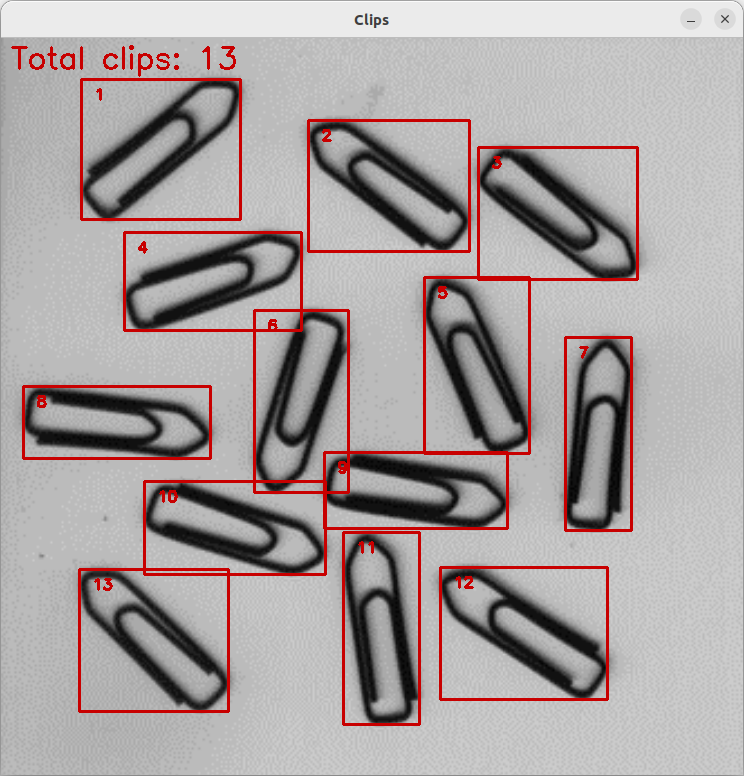
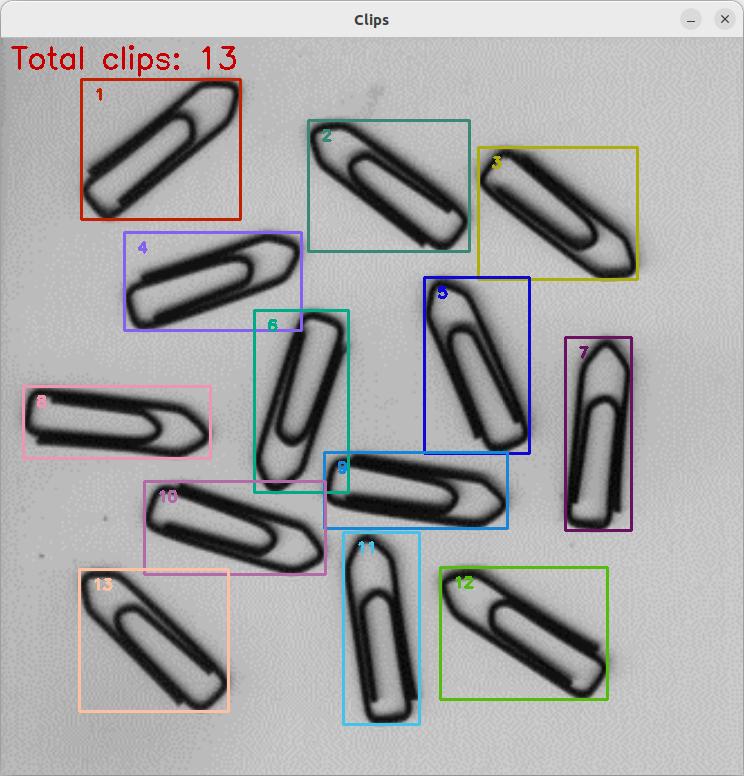
change clip result

diff --git a/OpenCV/clip/clip.cpp b/OpenCV/clip/clip.cpp
@@ -16,6 +16,9 @@ int main() {
     cv::Mat center;
     cv::Mat gray;  
 
+    std::default_random_engine generator;  
+    std::uniform_int_distribution<int> colorDistribution(0, 255);  
+
     cv::cvtColor(srcMat, gray, cv::COLOR_BGR2GRAY);  
 	cv::threshold(gray, resMat, 100, 255, THRESH_OTSU);
 	cv::bitwise_not(resMat, resover);
@@ -35,12 +38,16 @@ int main() {
 			rect.width = Matstate.at<int>(i, 2);
 			rect.height = Matstate.at<int>(i, 3);
 
-            cv::rectangle(srcMat, rect,cv::Scalar(0, 0, 200),2,8,0); 
+            int b = colorDistribution(generator);  
+            int g = colorDistribution(generator);  
+            int r = colorDistribution(generator);  
+
+            cv::rectangle(srcMat, rect,cv::Scalar(b, g, r),2,8,0); 
 
             std::stringstream ss;  
             ss << " " << (++totalClips);  
             cv::putText(srcMat, ss.str(), cv::Point(rect.x + 5, rect.y + 20),  
-            cv::FONT_HERSHEY_SIMPLEX, 0.5, cv::Scalar(0, 0, 200), 2);  
+            cv::FONT_HERSHEY_SIMPLEX, 0.5, cv::Scalar(b, g, r), 2);  
         }
     }
     
